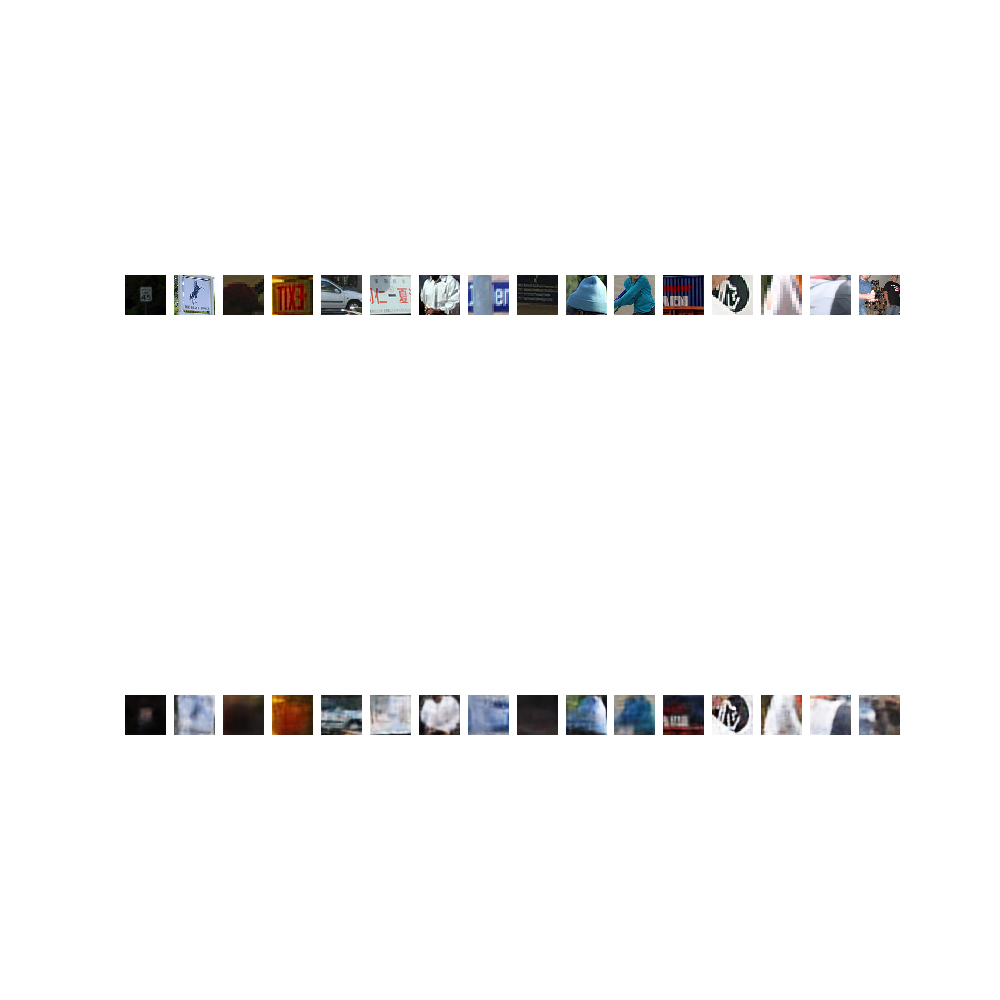
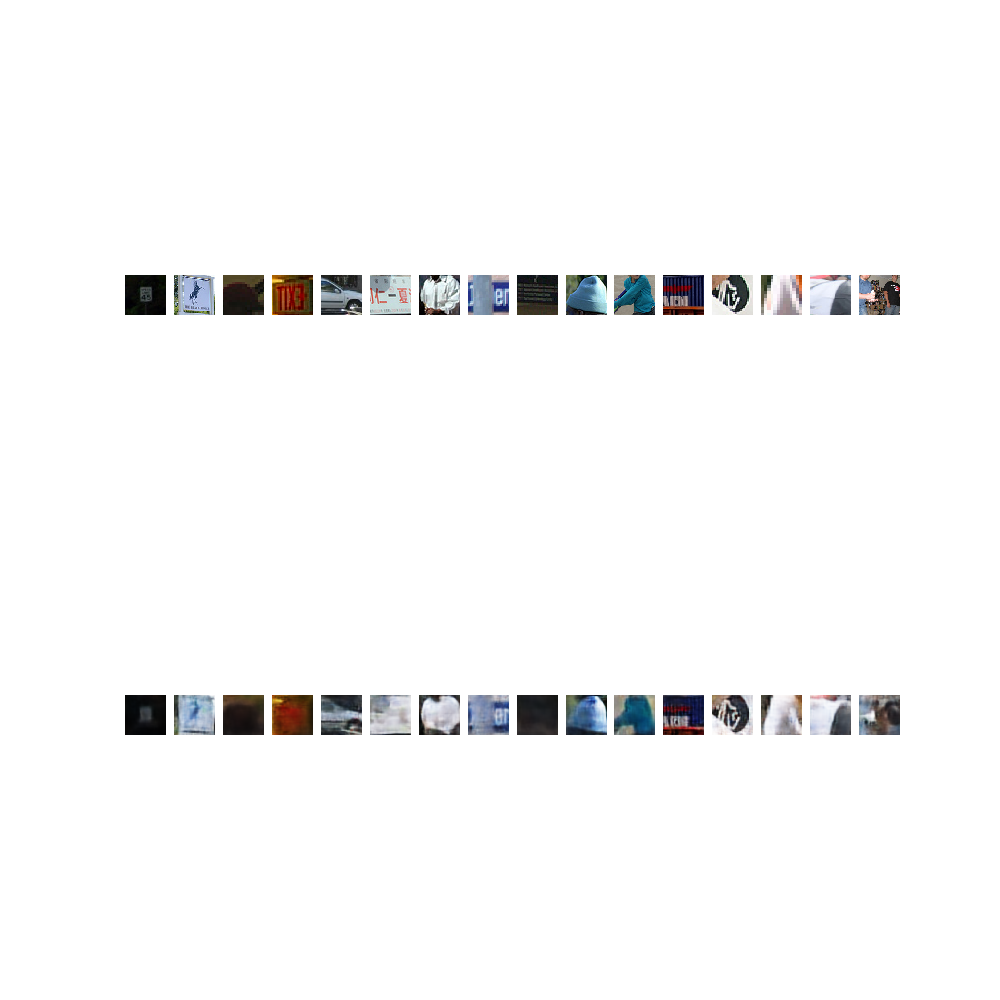
softmax deleted from hypernet feature inversion

Changed region(s): [[0.558, 0.682, 0.899, 0.744], [0.248, 0.682, 0.527, 0.744], [0.155, 0.682, 0.217, 0.744]]

diff --git a/experiments/feature_inversion/faster_rcnn/HyperNet/FrcnnEncoderDecoder.py b/experiments/feature_inversion/faster_rcnn/HyperNet/FrcnnEncoderDecoder.py
@@ -131,14 +131,13 @@ rcnn_features = tf.placeholder(tf.float32, [None, 2048])
 encoder_features = e(bounding_boxes)
 
 W = tf.constant(np.ones((OUTPUT_DIM, OUTPUT_DIM)), dtype=tf.float32, name="W")
+#W = tf.get_variable("W",(OUTPUT_DIM, OUTPUT_DIM))
 W = tf.reshape(W, (1, OUTPUT_DIM, OUTPUT_DIM))
 W = tf.tile(W, [tf.shape(bounding_boxes)[0], 1, 1])
 
 W_control = tf.layers.dense(encoder_features, 64, activation=tf.nn.relu)
 W_control = tf.layers.dense(W_control, OUTPUT_DIM * OUTPUT_DIM, activation=None)
 W_control = tf.reshape(W_control, [-1, OUTPUT_DIM, OUTPUT_DIM])
-
-W_control = tf.nn.softmax(W_control, axis=1)
 
 W_rez = W * W_control
 
